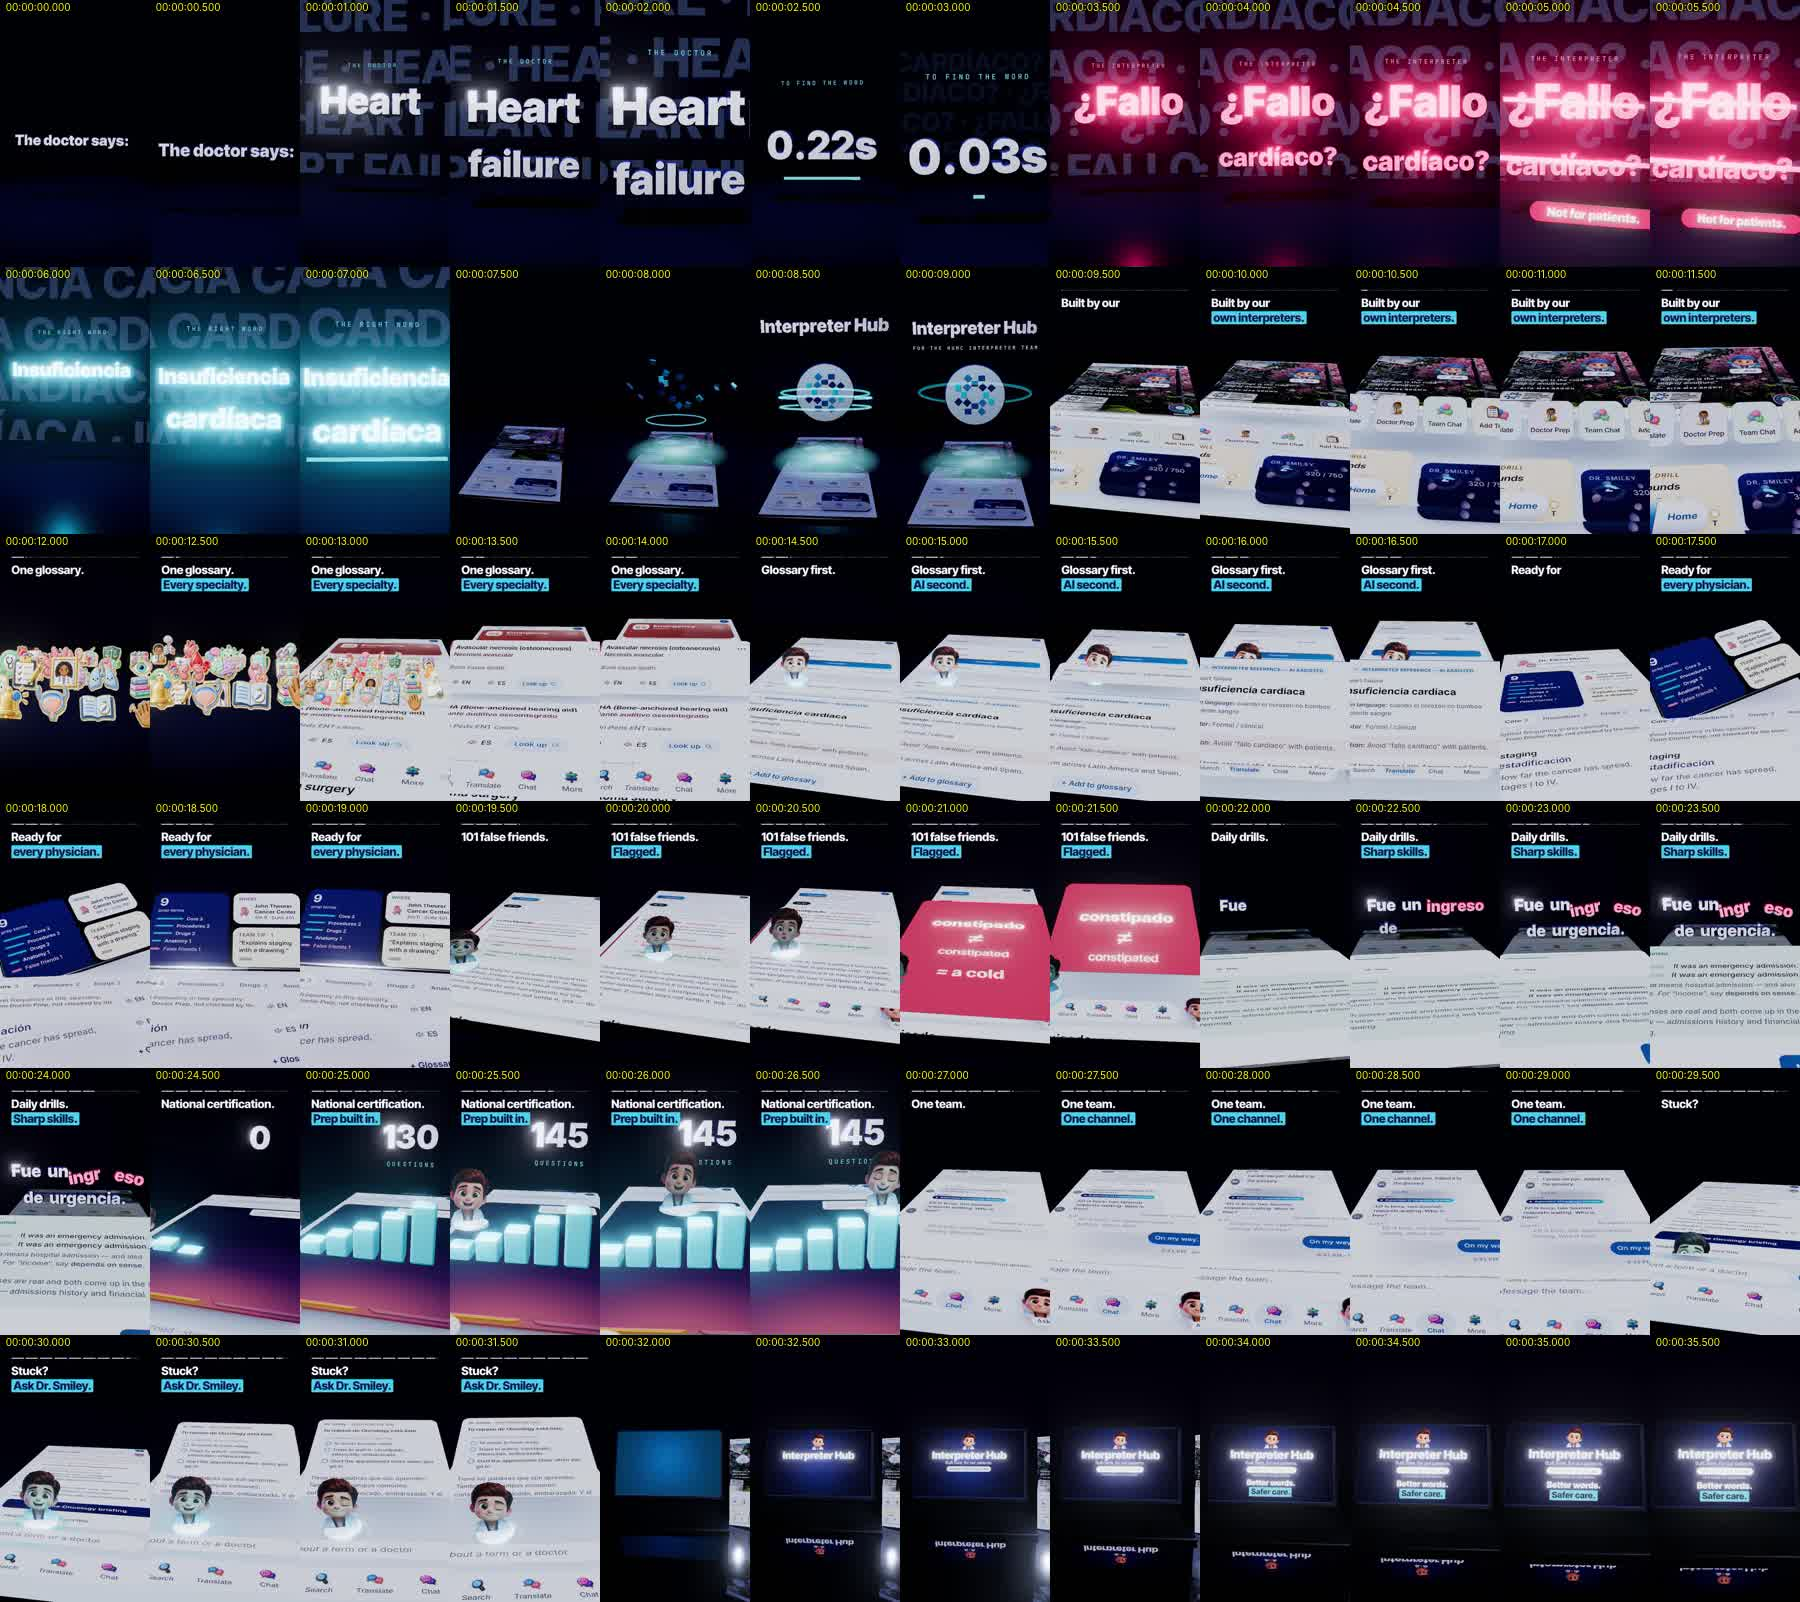
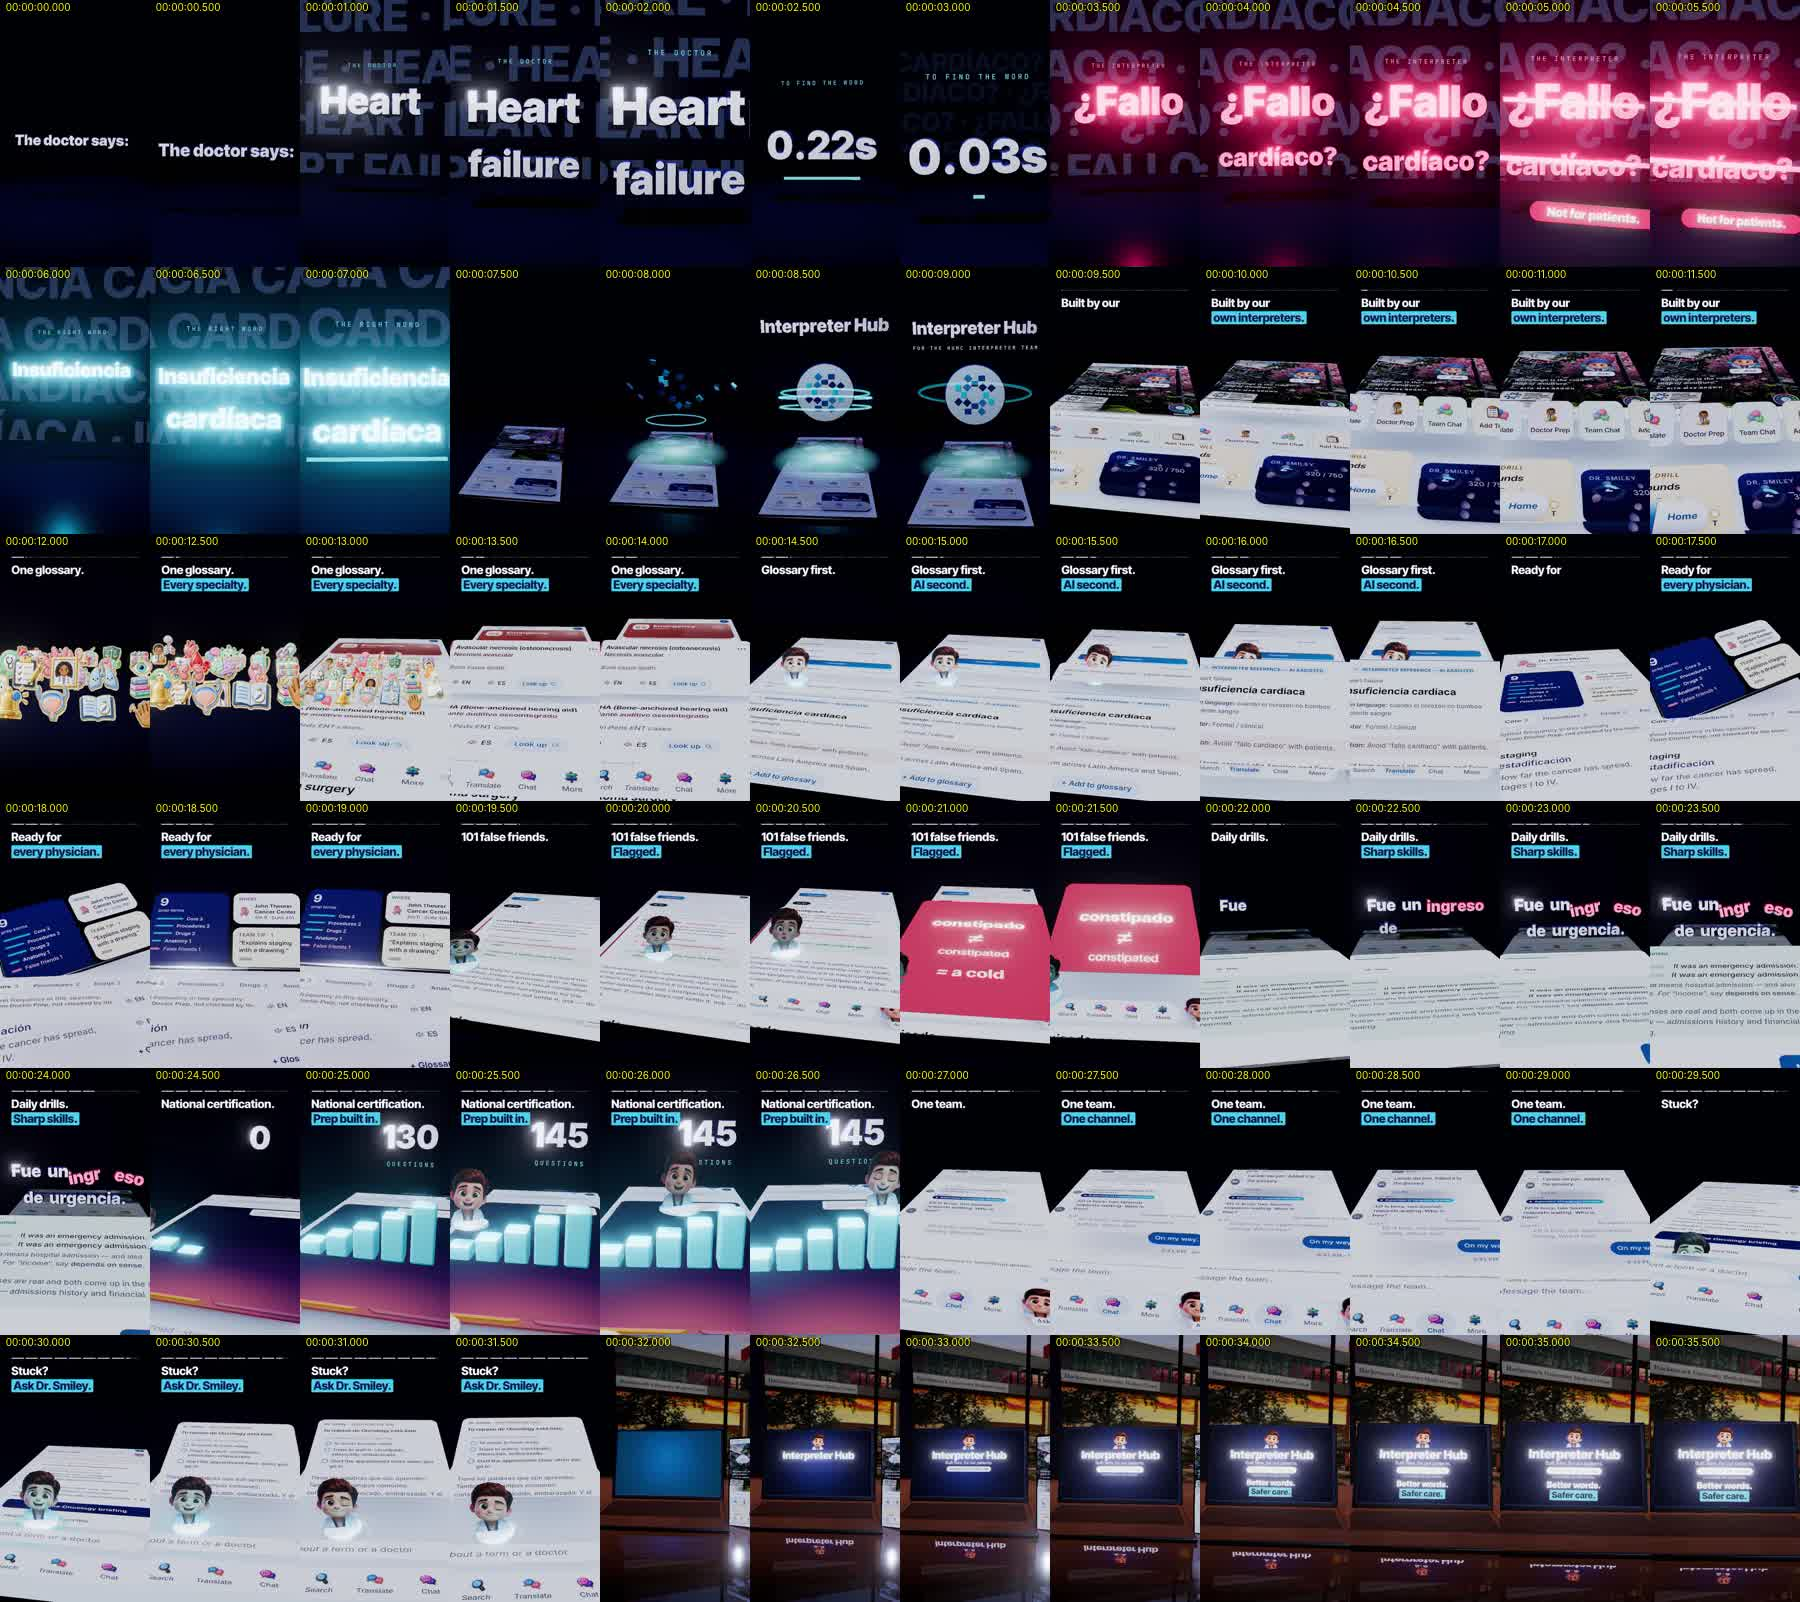
Promo remake: HUMC behind the end card, Dr. Smiley's brows back
Jose's notes on the full draft: no hospital in it, and Dr. Smiley on the
end card had no eyebrows. The end card now sits in front of a window onto
HUMC's skybridge at sunset, the "Hackensack University Medical Center"
sign whole and readable, with a little warm light coming through. His
picture there was the base art alone, which has no brows (they are
separate drawings); smiley.js now exports composeSmiley so every flat
copy of him is composed whole, as the 3D puppet already was.

Promo only: nothing in the app changes, so no User Guide update.

Claude-Session: https://claude.ai/code/session_01DhjSXrbMgAuU9PQQNHN4eU

Changed region(s): [[0.3111, 0.8115, 1.0, 1.0]]

diff --git a/promo/hub-blend/src/remake/end.js b/promo/hub-blend/src/remake/end.js
@@ -7,13 +7,35 @@ import { Reflector } from "../../vendor/Reflector.js";
 import { RoundedBoxGeometry } from "../../vendor/RoundedBoxGeometry.js";
 import { RectAreaLightUniformsLib } from "../../vendor/RectAreaLightUniformsLib.js";
 import { clamp, lerp, prog, outBack, outExpo, outCubic, inOutSine } from "../util.js";
+import { loadSmileyArt, composeSmiley, BROWS } from "../smiley.js";
 
 const LID_W = 3.3, LID_H = 2.1, SCR_W = 3.08, SCR_H = 1.9;
 
 export async function buildEnd(scene, group, { start }) {
   RectAreaLightUniformsLib.init();
   const loadImg = (src) => new Promise((res, rej) => { const i = new Image(); i.onload = () => res(i); i.onerror = rej; i.src = src; });
-  const [smileyImg, homeImg] = await Promise.all([loadImg("assets/drsmiley/base.webp"), loadImg("assets/layers/home/full.webp")]);
+  const [art, homeImg, viewImg] = await Promise.all([loadSmileyArt("assets/drsmiley/"), loadImg("assets/layers/home/full.webp"), loadImg("assets/humc/skybridge-sunset.jpg")]);
+  // Dr. Smiley whole, brows included, smiling: drawn once, then placed on the screen
+  const smileyImg = document.createElement("canvas"); smileyImg.width = 480; smileyImg.height = 600;
+  composeSmiley(smileyImg.getContext("2d"), art, "smile", BROWS.glad);
+
+  // the window behind the table: HUMC's skybridge at sunset, a little soft, split by mullions
+  const wc = document.createElement("canvas"); wc.width = 1024; wc.height = 1024;
+  const wg = wc.getContext("2d");
+  wg.filter = "blur(1.2px) saturate(1.08)"; wg.drawImage(viewImg, 0, 0, 1024, 1024); wg.filter = "none";
+  wg.fillStyle = "rgba(4,7,18,0.18)"; wg.fillRect(0, 0, 1024, 1024);
+  wg.fillStyle = "#06080f";
+  for (const x of [0, 470, 1014]) wg.fillRect(x - 6, 0, 16, 1024); // mullions clear of the sign
+  wg.fillRect(0, 1008, 1024, 16);
+  const winTex = new THREE.CanvasTexture(wc); winTex.colorSpace = THREE.SRGBColorSpace;
+  const windowView = new THREE.Mesh(new THREE.PlaneGeometry(9.6, 9.6), new THREE.MeshBasicMaterial({ map: winTex, toneMapped: false, color: 0xd8d2d2 }));
+  windowView.position.set(2.0, 2.9, -4.6);
+  group.add(windowView);
+  // the sunset's warm light coming in through it, onto the table and the laptop's back
+  const sunset = new THREE.RectAreaLight(0xff9a6a, 0.9, 9, 4);
+  sunset.position.set(-0.4, 2.0, -4.4);
+  sunset.lookAt(-0.4, 0, 0);
+  group.add(sunset);
 
   // the table: a mirror, dimmed by a dark sheet so the reflection fades like lacquer
   const mirror = new Reflector(new THREE.PlaneGeometry(14, 10), { textureWidth: 540, textureHeight: 960, color: 0x7a8296, clipBias: 0.003 });

diff --git a/promo/hub-blend/src/smiley.js b/promo/hub-blend/src/smiley.js
@@ -26,8 +26,29 @@ const DISC_R = 0.36, DISC_H = 0.05;
 
 const load = (src) => new Promise((res, rej) => { const i = new Image(); i.onload = () => res(i); i.onerror = rej; i.src = src; });
 
-export async function createSmiley({ root = "../../drsmiley/", glow = 0x3fc6ee } = {}) {
+// His art from the app, for createSmiley and for anything that draws him flat (the end card).
+export async function loadSmileyArt(root = "../../drsmiley/") {
   const [base, face, bl, br] = await Promise.all(["base", "face", "brow-l", "brow-r"].map((n) => load(root + n + ".webp")));
+  return { base, face, bl, br };
+}
+// Draws him whole (base, one face frame, both brows) into a 480 x 600 area of g, as drSmileyArt lays him out.
+export function composeSmiley(g, { base, face, bl, br }, frame = "rest", brows = BROWS.rest) {
+  const fi = Math.max(0, FRAMES.indexOf(frame));
+  g.drawImage(base, 0, 0);
+  g.drawImage(face, fi * FACE.w, 0, FACE.w, FACE.h, FACE.x, FACE.y, FACE.w, FACE.h);
+  const brow = (img, b, lift, tilt) => {
+    g.save();
+    g.translate(b.x + b.w / 2, b.y + b.h / 2 + lift * SVG_TO_PX);
+    g.rotate((tilt * Math.PI) / 180);
+    g.drawImage(img, -b.w / 2, -b.h / 2);
+    g.restore();
+  };
+  brow(bl, BROW_L, brows[0], brows[1]);
+  brow(br, BROW_R, brows[2], brows[3]);
+}
+
+export async function createSmiley({ root = "../../drsmiley/", glow = 0x3fc6ee } = {}) {
+  const art = await loadSmileyArt(root);
   const cv = document.createElement("canvas");
   cv.width = 480; cv.height = 600;
   const g = cv.getContext("2d");
@@ -40,19 +61,8 @@ export async function createSmiley({ root = "../../drsmiley/", glow = 0x3fc6ee }
     const key = frame + "|" + brows.join(",");
     if (key === drawn) return;
     drawn = key;
-    const fi = Math.max(0, FRAMES.indexOf(frame));
     g.clearRect(0, 0, 480, 600);
-    g.drawImage(base, 0, 0);
-    g.drawImage(face, fi * FACE.w, 0, FACE.w, FACE.h, FACE.x, FACE.y, FACE.w, FACE.h);
-    const brow = (img, b, lift, tilt) => {
-      g.save();
-      g.translate(b.x + b.w / 2, b.y + b.h / 2 + lift * SVG_TO_PX);
-      g.rotate((tilt * Math.PI) / 180);
-      g.drawImage(img, -b.w / 2, -b.h / 2);
-      g.restore();
-    };
-    brow(bl, BROW_L, brows[0], brows[1]);
-    brow(br, BROW_R, brows[2], brows[3]);
+    composeSmiley(g, art, frame, brows);
     tex.needsUpdate = true;
   }
   paint("rest", BROWS.rest);

diff --git a/promo/hub-blend/src/remake/main.js b/promo/hub-blend/src/remake/main.js
@@ -397,6 +397,8 @@ async function build() {
     camera.lookAt(cam.look);
     const fp = a.focus || a.look;
     bokeh.uniforms.focus.value = camera.position.distanceTo(fp);
+    // the end card keeps the hospital behind the table readable: less blur there
+    bokeh.uniforms.aperture.value = s[2] === "end" ? 0.00025 : 0.0007;
     camera.rotation.z += Math.sin(t * 1.3) * 0.012; // a hand-held breath
     // the spotlight moves with the shot
     const g = groups[s[2]].position;

diff --git a/promo/hub-blend/BRIEF.md b/promo/hub-blend/BRIEF.md
@@ -136,6 +136,13 @@ distinct on screen.
    the table, then the end lines arrive). 36 s: 9 features x 2.5 s.
    Music: `assets/music-remake.m4a`, v11's track 0-32.6 s crossfaded into
    its 40.9-45 s ending (36.1 s). The 36 s draft renders in about 5 min.
+   Jose's notes on this draft (2026-10-20): the hospital was missing, and
+   the end card's Dr. Smiley had no brows. Fixed: behind the table is a
+   window onto HUMC's skybridge at sunset (`assets/humc/skybridge-sunset.jpg`,
+   the sign kept whole and readable, less blur in that shot, a little warm
+   light through it); his picture on the screen is now composed whole
+   (`composeSmiley` in `src/smiley.js`: base, face frame, both brows).
+   He chose the window only (not an opener, word walls or an aerial shot).
    Known for step 7: the end card's lines are small at phone size (the
    laptop screen is landscape inside a portrait frame); the phone in the end
    card is mostly off frame; the Team shot's lift is subtle.
